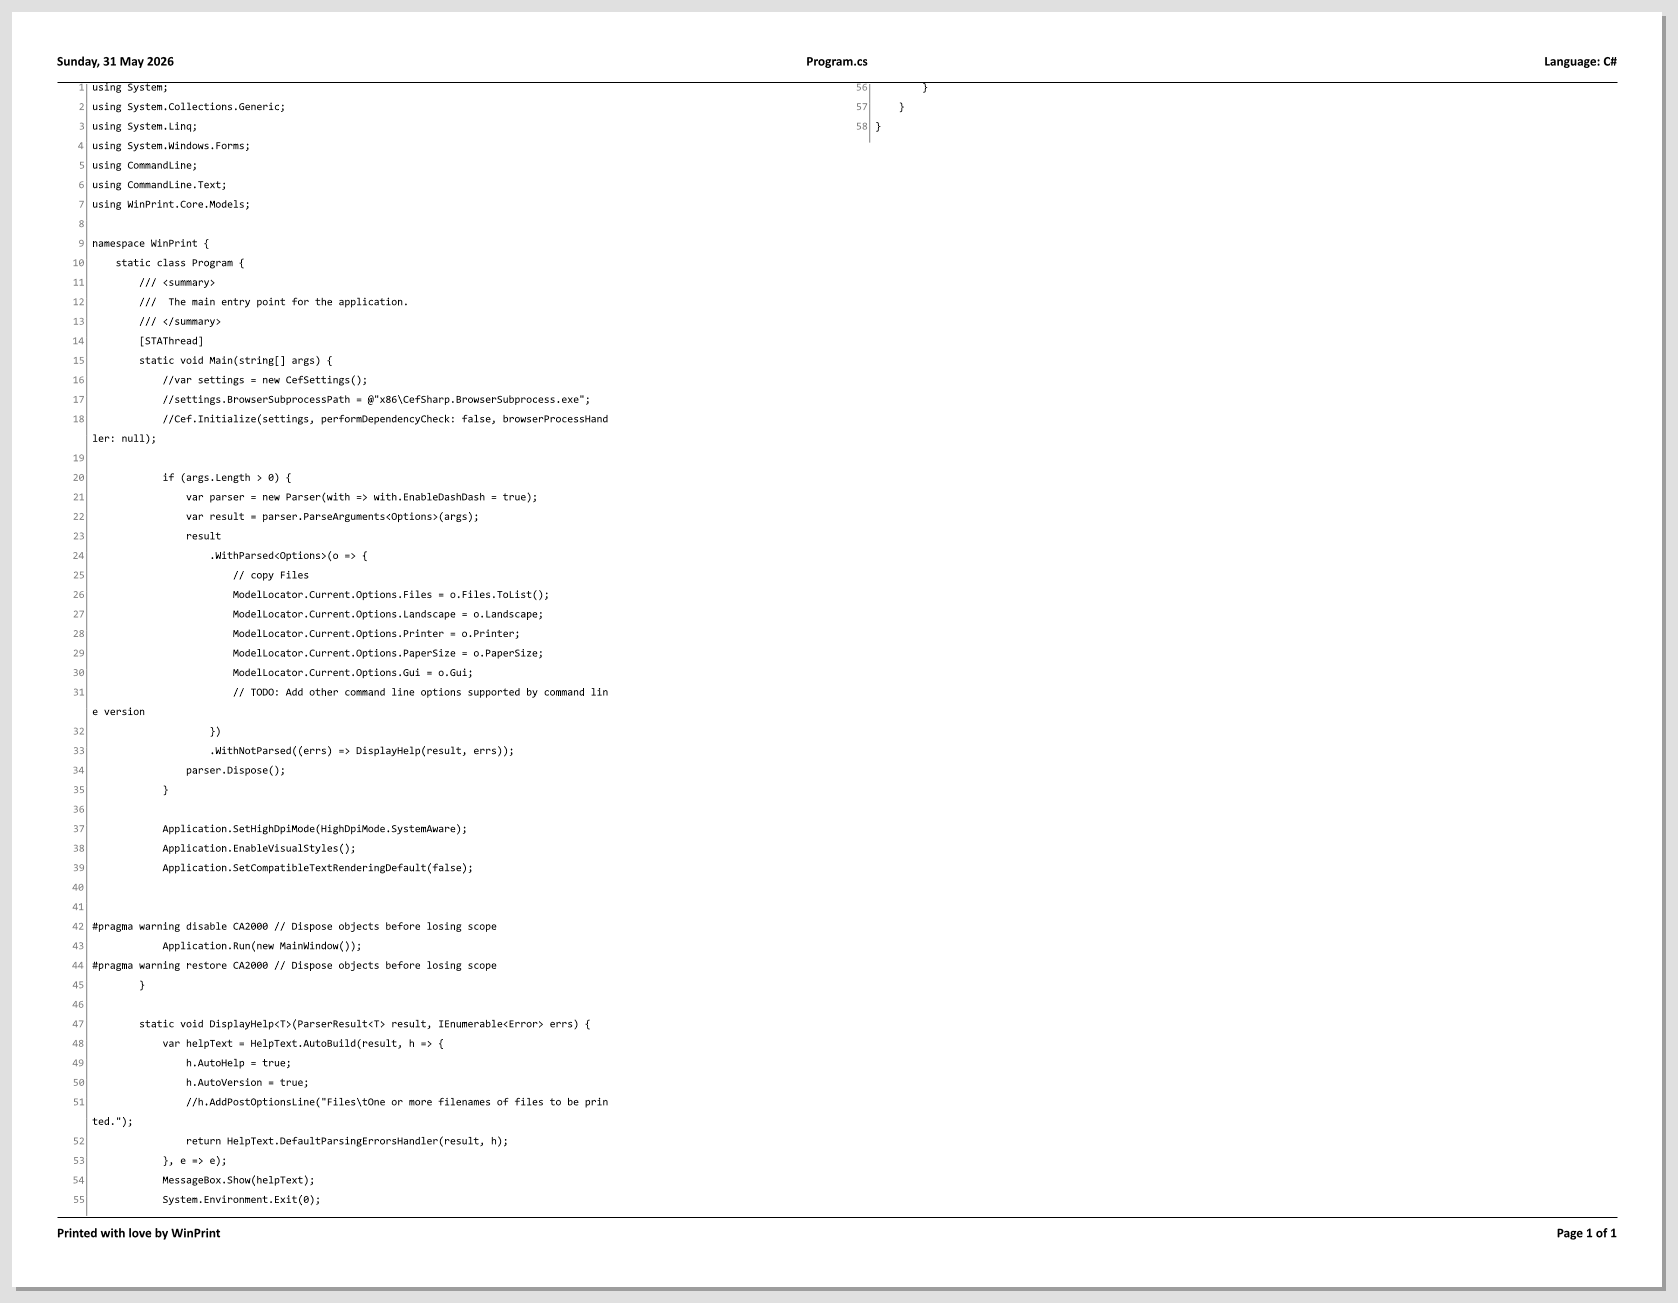
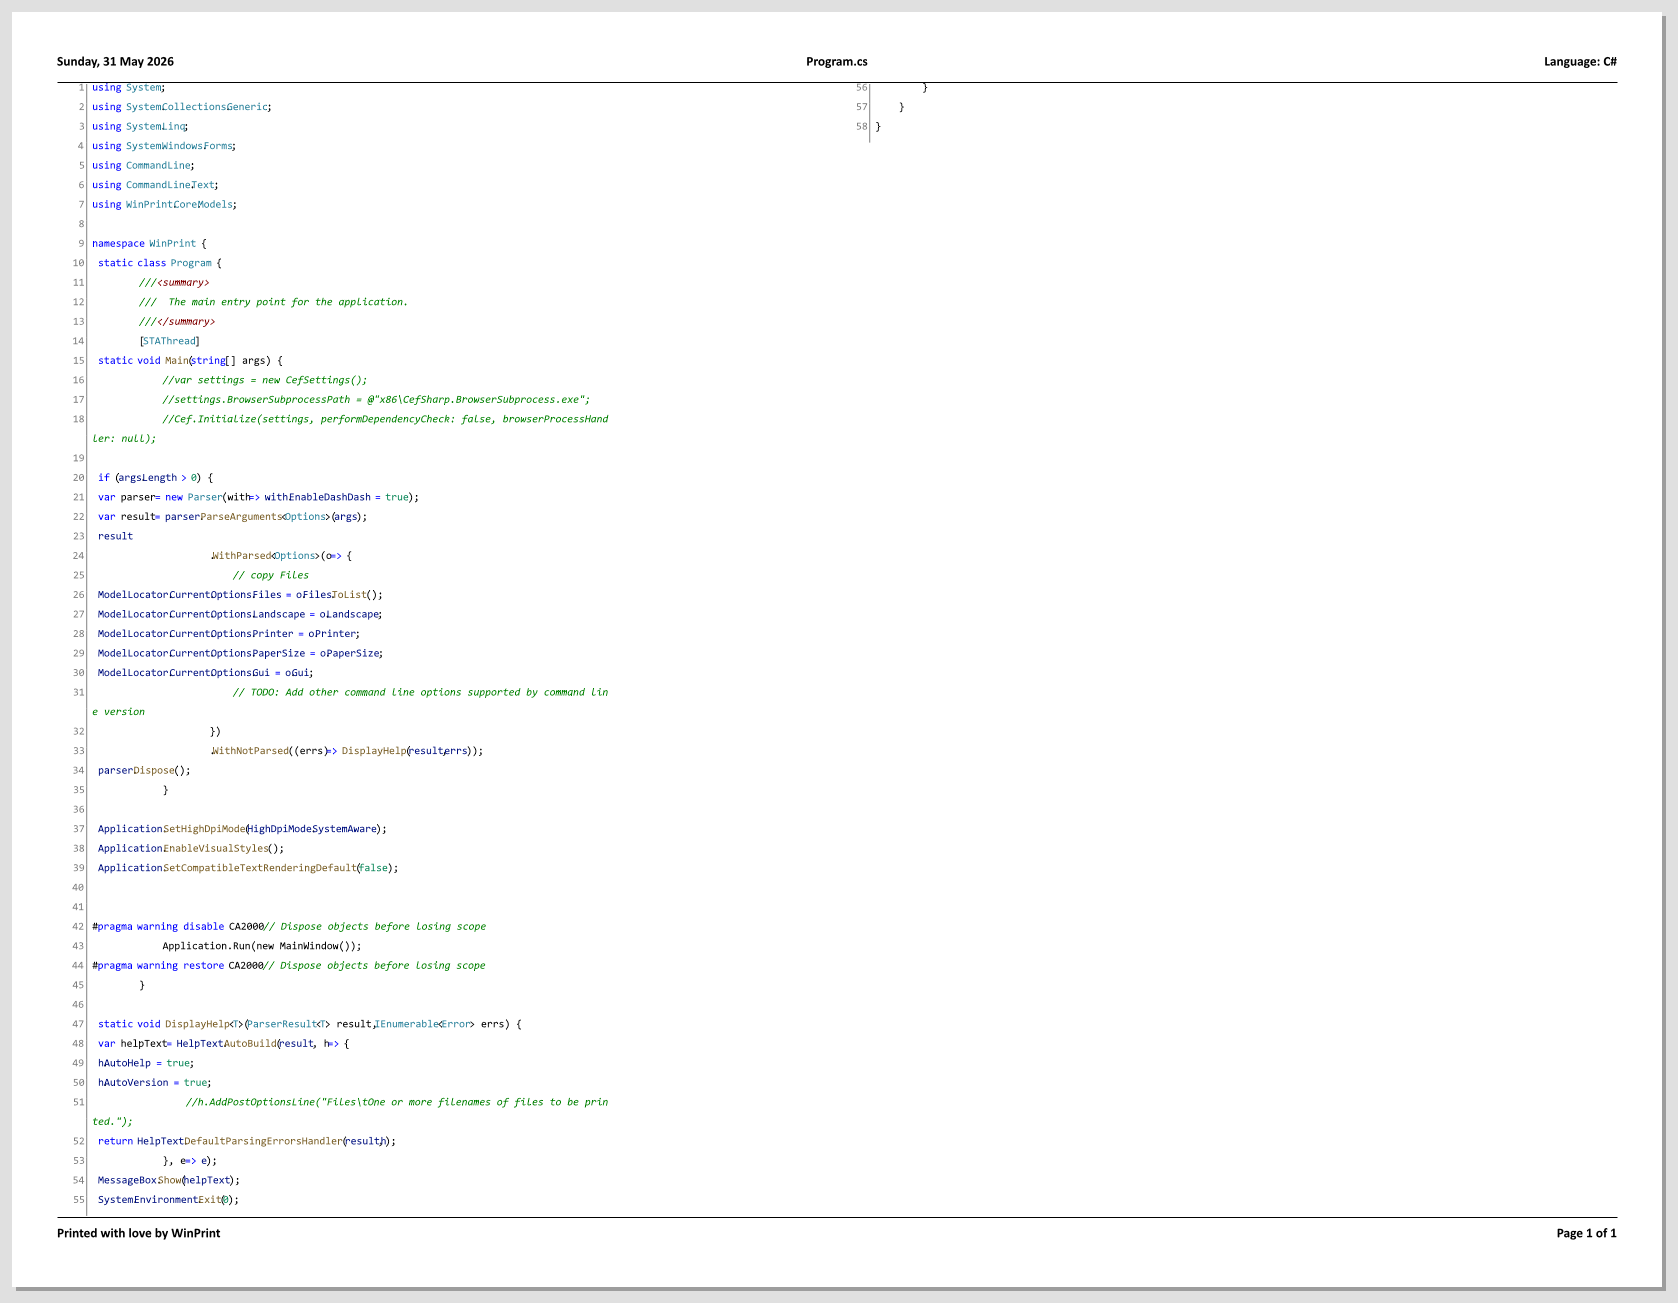
Enable TextMateCte syntax highlighting on non-Windows
Remove #if WINDOWS guard around TextMateCte.Configure() call in
SheetViewModel.LoadStringAsync. TextMateCte is fully cross-platform
(uses TextMateSharp bundled grammars); the guard was a leftover from
when the whole CTE path was Windows-only.

Update docs render to show syntax-highlighted output.

diff --git a/src/WinPrint.Core/ViewModels/SheetViewModel.cs b/src/WinPrint.Core/ViewModels/SheetViewModel.cs
@@ -509,12 +509,10 @@ public class SheetViewModel : ViewModelBase
                 throw new InvalidOperationException($"Content type engine not found for '{contentType}'.");
             }
 
-#if WINDOWS
             if (ContentEngine is TextMateCte textMateCte)
             {
                 textMateCte.Configure(ContentType, Language, File);
             }
-#endif
 
             // Content settings in Sheet take precidence over Engine
             if (ContentEngine.ContentSettings is null)